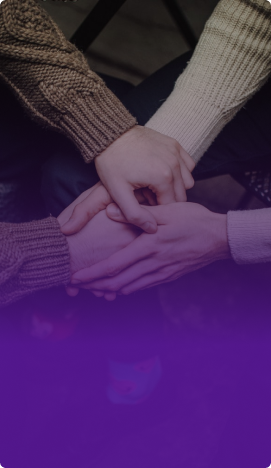
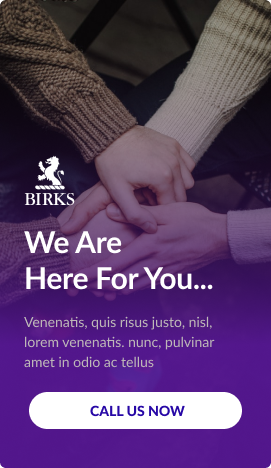
feat: right bar image added

diff --git a/src/components/RightBar.jsx b/src/components/RightBar.jsx
@@ -40,40 +40,9 @@ const RightBar = () => {
           <SecondaryButton text="View All Stories" />
         </Box>
       </Box>
-      {/* <Box
-        mt={3}
-        p={4}
-        sx={{
-          backgroundImage: `url(${cardbg})`,
-          height: "28%",
-          width: "100%",
-          backgroundRepeat: "no-repeat",
-          backgroundSize: "cover",
-          borderRadius: "10px",
-        }}
-      >
-        <Box>
-          <img src={cardlogo} />
-          <Typography>We Are Here For You...</Typography>
-          <p>
-            Venenatis, quis risus justo, nisl, lorem venenatis. Nunc, pulvinar
-            amet in odio ac tellus
-          </p>
-          <PrimaryButton text="Contact Us" />
-        </Box>
-      </Box> */}
 
-      <Box sx={{ display: "flex" }}>
-        <ImageList cols={1}>
-          {" "}
-          {/* Set cols to 1 for a single-column layout */}
-          <ImageListItem sx={{ width: "100%", flexGrow: 1 }}>
-            {" "}
-            {/* Set width and flexGrow */}
-            <img src={cardbg} alt="background" />
-            {/* <ImageListItemBar title="Title" subtitle="Sub Title" /> */}
-          </ImageListItem>
-        </ImageList>
+      <Box sx={{ display: "flex", marginTop: "20px" }}>
+        <img src={cardbg} alt="background" style={{ width: "100%" }} />
       </Box>
     </Box>
   );
